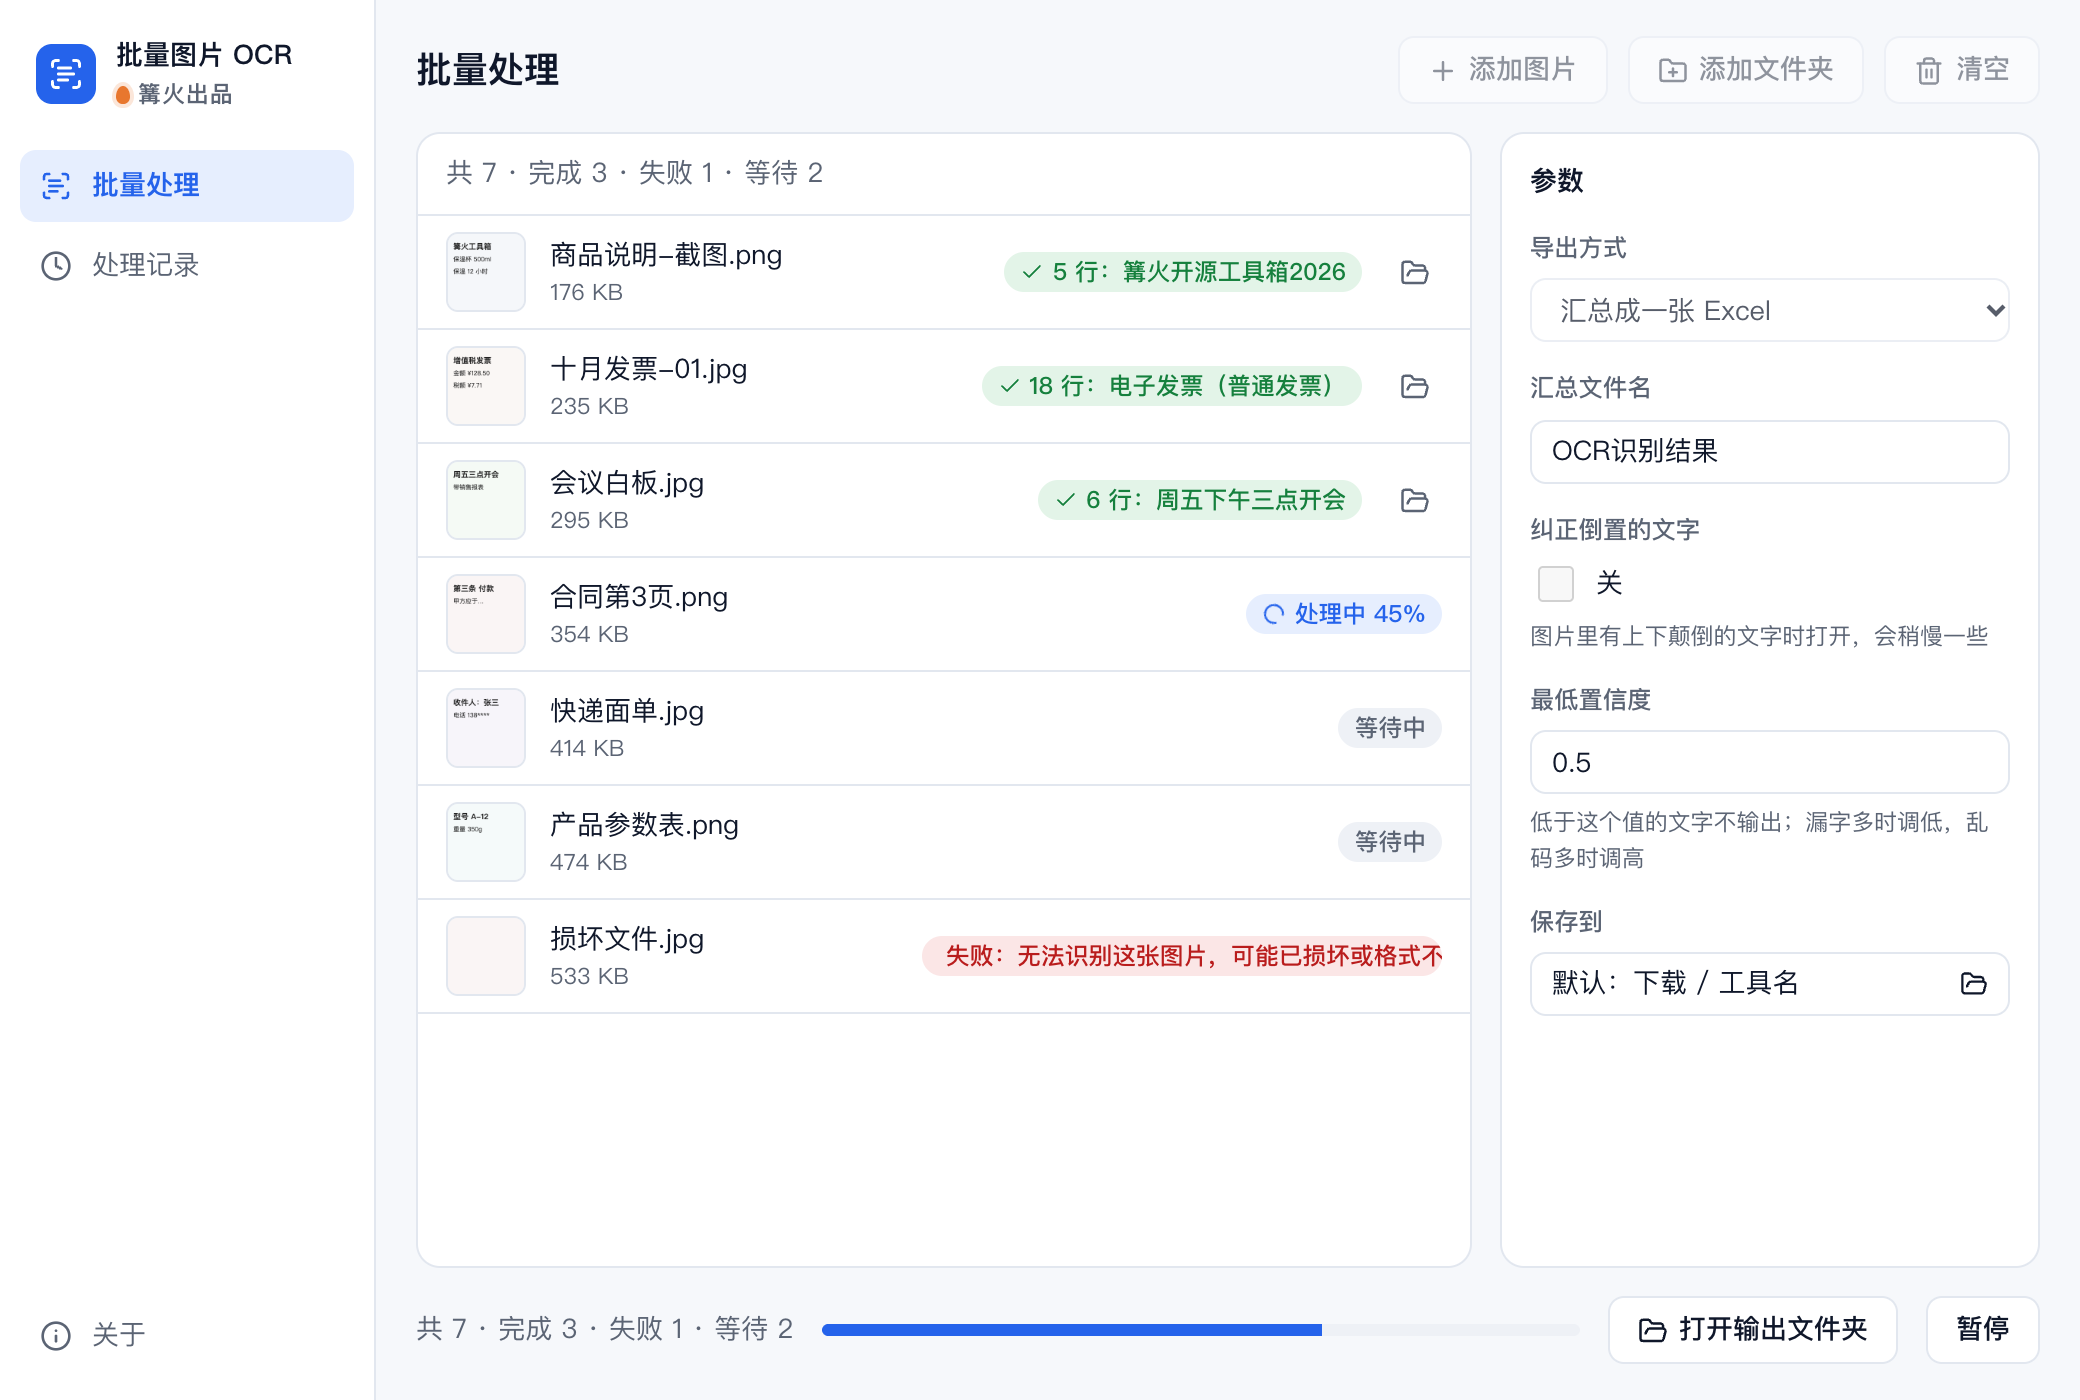
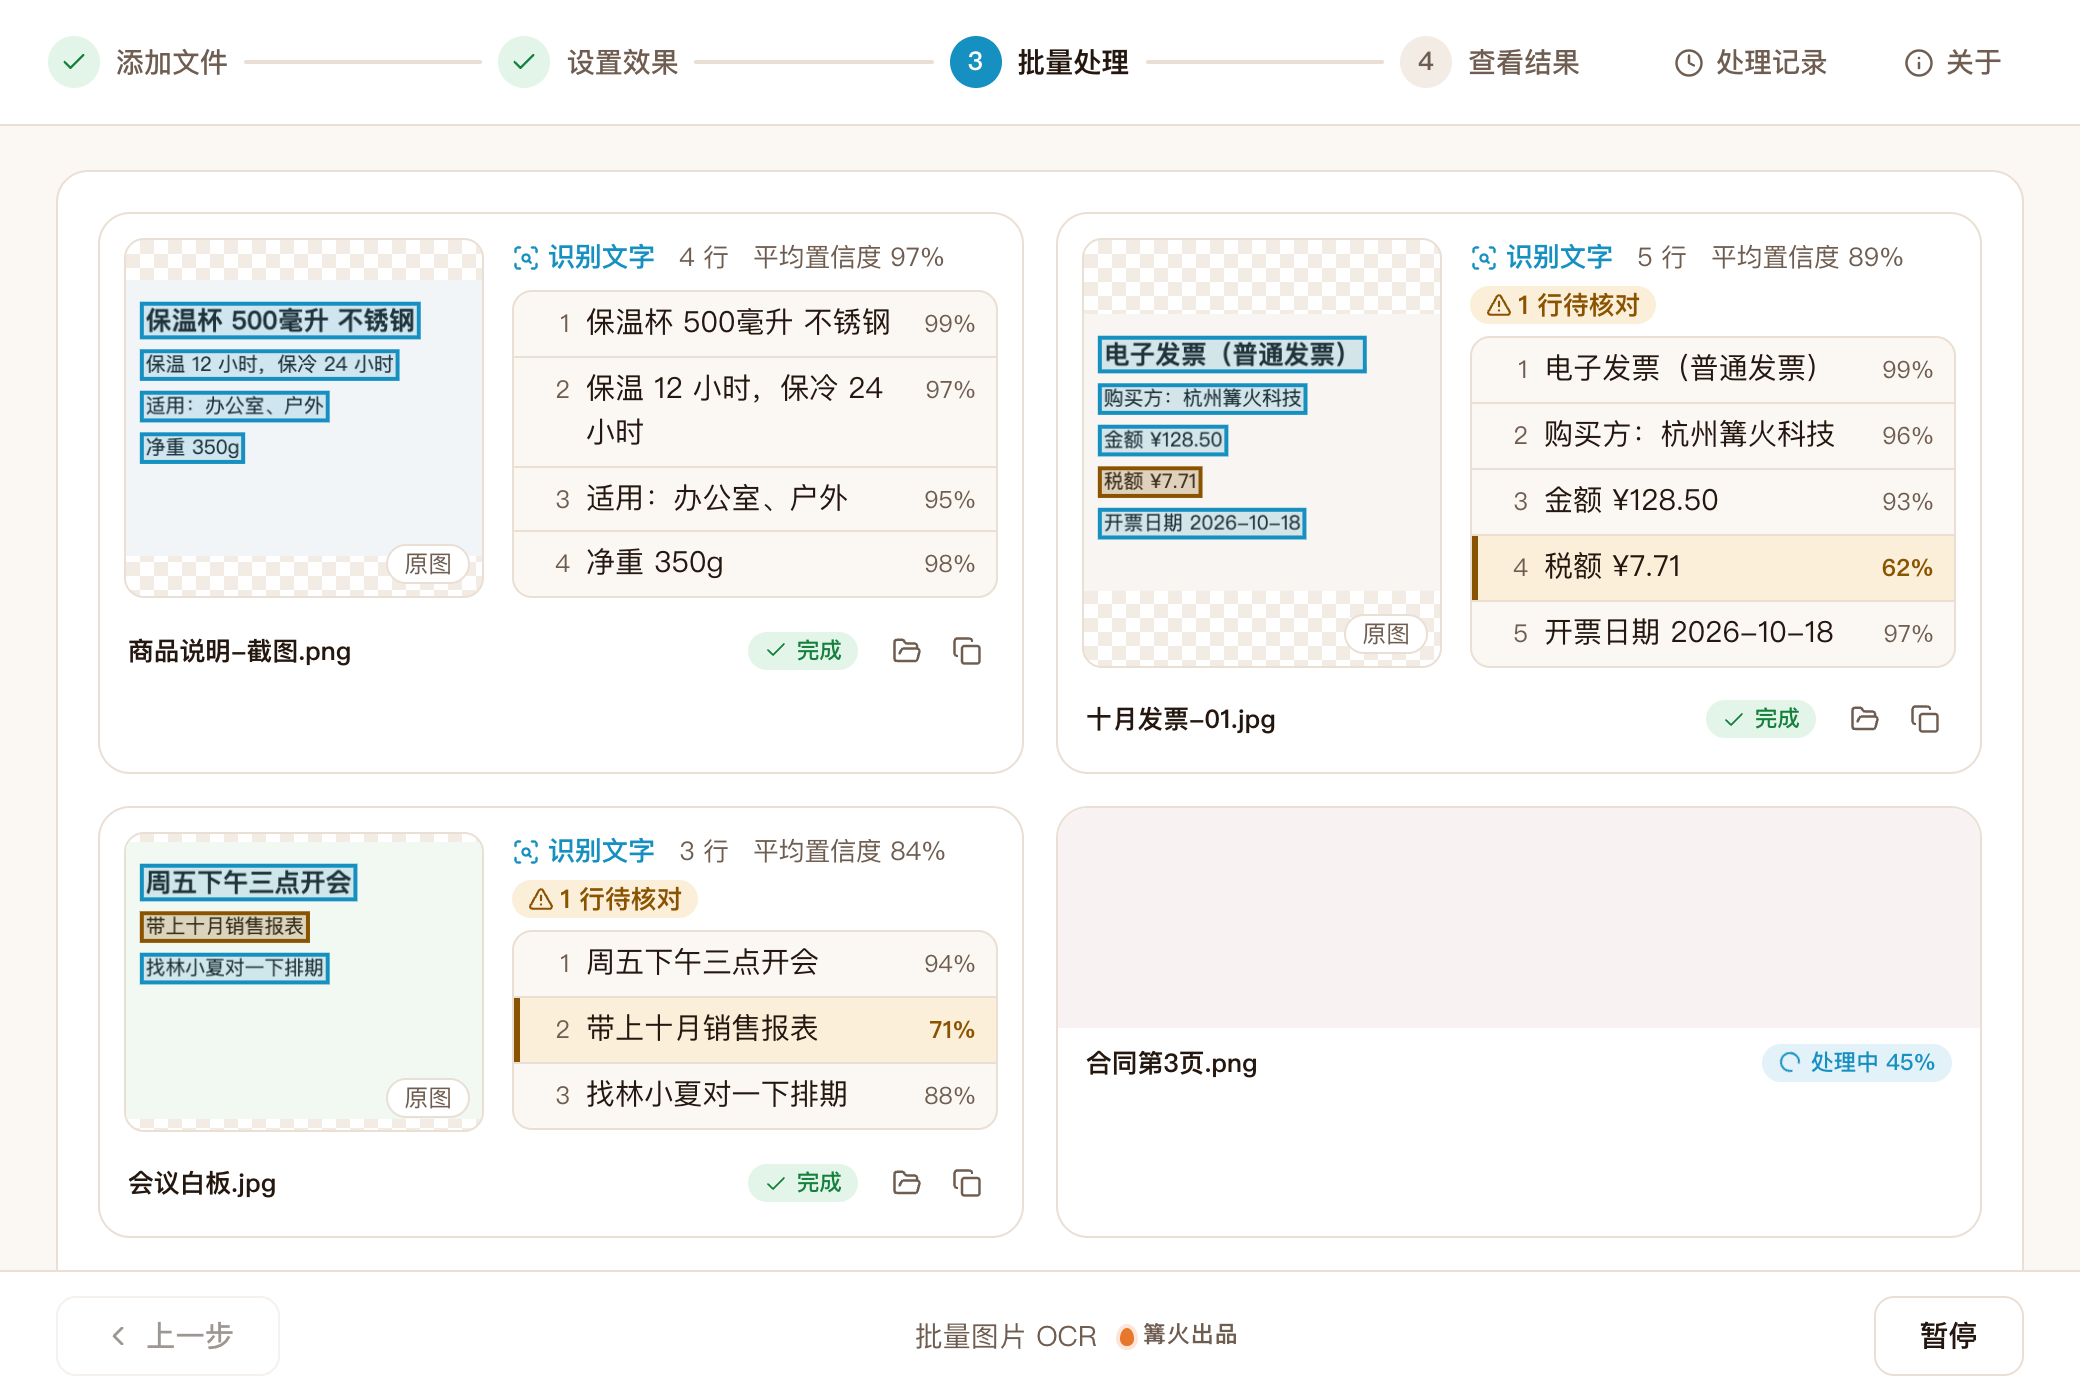
打磨 0.2.0：分步向导布局、原图与识别文字左右对照、低置信度标黄

diff --git a/src/tool/preview.ts b/src/tool/preview.ts
@@ -1,31 +1,54 @@
 // 截图与预览用的示例数据（不会进入正式运行）
 import type { Row } from '../kit/runner';
+import type { Quad, TextLine } from './core';
 
-function shot(lines: string[], hue: number) {
+const W = 360;
+const H = 280;
+/** 画一张带文字的示例图，同时算出每行文字的框，让预览里的框和图对得上 */
+function draw(lines: [string, number][], hue: number): { url: string; data: TextLine[] } {
   const c = document.createElement('canvas');
-  c.width = c.height = 200;
+  c.width = W; c.height = H;
   const g = c.getContext('2d')!;
-  g.fillStyle = `hsl(${hue} 30% 97%)`;
-  g.fillRect(0, 0, 200, 200);
-  g.fillStyle = '#222';
-  lines.forEach((t, i) => { g.font = `${i ? 16 : 'bold 20'}px sans-serif`; g.fillText(t, 14, 40 + i * 32); });
-  return c.toDataURL('image/png');
+  g.fillStyle = `hsl(${hue} 32% 96%)`;
+  g.fillRect(0, 0, W, H);
+  const out: TextLine[] = [];
+  lines.forEach(([text, score], i) => {
+    const size = i ? 20 : 26;
+    g.font = `${i ? '' : 'bold '}${size}px sans-serif`;
+    g.fillStyle = '#222';
+    const y = 50 + i * 42;
+    g.fillText(text, 20, y);
+    const w = g.measureText(text).width;
+    const quad: Quad = [[16, y - size], [24 + w, y - size], [24 + w, y + 8], [16, y + 8]];
+    out.push({ text, score, boxes: [{ quad, text, score }] });
+  });
+  return { url: c.toDataURL('image/png'), data: out };
 }
-const files: [string, string[], number, Row['status'], string][] = [
-  ['商品说明-截图.png', ['篝火工具箱', '保温杯 500ml', '保温 12 小时'], 210, 'ok', '5 行：篝火开源工具箱2026'],
-  ['十月发票-01.jpg', ['增值税发票', '金额 ¥128.50', '税额 ¥7.71'], 30, 'ok', '18 行：电子发票（普通发票）'],
-  ['会议白板.jpg', ['周五三点开会', '带销售报表'], 120, 'ok', '6 行：周五下午三点开会'],
-  ['合同第3页.png', ['第三条 付款', '甲方应于…'], 0, 'run', ''],
-  ['快递面单.jpg', ['收件人：张三', '电话 138****'], 260, 'wait', ''],
-  ['产品参数表.png', ['型号 A-12', '重量 350g'], 180, 'wait', ''],
-  ['损坏文件.jpg', [], 0, 'err', '无法识别这张图片，可能已损坏或格式不受支持'],
+
+const files: [string, [string, number][], number, Row['status'], string][] = [
+  ['商品说明-截图.png', [['保温杯 500毫升 不锈钢', 0.99], ['保温 12 小时，保冷 24 小时', 0.97], ['适用：办公室、户外', 0.95], ['净重 350g', 0.98]], 210, 'ok', ''],
+  ['十月发票-01.jpg', [['电子发票（普通发票）', 0.99], ['购买方：杭州篝火科技', 0.96], ['金额 ¥128.50', 0.93], ['税额 ¥7.71', 0.62], ['开票日期 2026-10-18', 0.97]], 30, 'ok', ''],
+  ['会议白板.jpg', [['周五下午三点开会', 0.94], ['带上十月销售报表', 0.71], ['找林小夏对一下排期', 0.88]], 120, 'ok', ''],
+  ['合同第3页.png', [['第三条 付款方式', 0.9]], 0, 'run', ''],
+  ['快递面单.jpg', [['收件人：张三', 0.9]], 260, 'wait', ''],
+  ['产品参数表.png', [['型号 甲-12', 0.9]], 180, 'wait', ''],
+  ['损坏的图片.jpg', [], 0, 'err', '无法识别这张图片，可能已损坏或格式不受支持'],
 ];
 export const rows = (state: string): Row[] =>
   state === 'empty' ? [] : files.map(([name, lines, hue, status, text], i) => {
     const st = state === 'done' && status !== 'err' ? 'ok' : status;
+    const { url, data } = draw(lines, hue);
     return {
-      item: { id: `p${i}`, name, path: shot(lines, hue), size: 180_000 + i * 61_000 },
+      item: { id: `p${i}`, name, path: url, size: 180_000 + i * 61_000 },
       status: st, progress: st === 'run' ? 0.45 : st === 'ok' ? 1 : 0, error: st === 'err' ? text : undefined,
-      result: st === 'ok' ? { preview: shot(lines, hue), summary: text || '4 行：识别完成', outputPath: '/示例' } : undefined,
+      result: st === 'ok' ? {
+        preview: url,
+        summary: `${data.length} 行：${data[0]?.text ?? ''}`,
+        outputPath: '/示例',
+        text: data.map((l) => l.text).join('\n'),
+        data: { name, lines: data },
+      } : undefined,
     };
   });
+
+export const params = { format: 'xlsx' };

diff --git a/src/tool/tool.css b/src/tool/tool.css
@@ -1,0 +1,35 @@
+/* 批量图片 OCR：布局 c（分步向导 + 大卡片）。只用 kit.css 的变量，类名以 oc- 开头。
+   焦点是每张图的「原图 | 识别文字」左右对照，所以把结果卡片拉宽。 */
+.L-c .k-cards { grid-template-columns: repeat(auto-fill, minmax(460px, 1fr)); gap: 16px; }
+.L-c .k-card { border-radius: var(--radius-lg); }
+.L-c .k-card-body { padding: 12px 12px 4px; }
+.L-c .k-card-meta { padding: 8px 14px 12px; font-weight: 600; }
+
+.oc-pair { display: grid; grid-template-columns: 180px minmax(0, 1fr); gap: 14px; align-items: stretch; }
+.oc-shot { position: relative; margin: 0; min-height: 150px; border-radius: var(--radius); border: 1px solid var(--line); background: repeating-conic-gradient(var(--chip) 0 25%, var(--surface) 0 50%) 0 0 / 14px 14px; overflow: hidden; display: grid; place-items: center; align-content: center; }
+.oc-shot svg { display: block; width: 100%; height: auto; max-height: 230px; }
+.oc-shot polygon { fill: color-mix(in srgb, var(--primary) 16%, transparent); stroke: var(--primary); stroke-width: 2; vector-effect: non-scaling-stroke; }
+.oc-shot polygon.low { fill: color-mix(in srgb, var(--warn) 22%, transparent); stroke: var(--warn); }
+.oc-shot figcaption { position: absolute; right: 6px; bottom: 6px; padding: 0 8px; border-radius: 999px; background: var(--surface); border: 1px solid var(--line); color: var(--muted); font-size: .85em; }
+
+.oc-text { min-width: 0; display: flex; flex-direction: column; gap: 6px; }
+.oc-meta { display: flex; flex-wrap: wrap; align-items: center; gap: 4px 12px; color: var(--muted); font-size: .92em; }
+.oc-meta b { display: inline-flex; align-items: center; gap: 4px; color: var(--primary); font-size: 1.04em; }
+.oc-warn { display: inline-flex; align-items: center; gap: 3px; padding: 0 8px; border-radius: 999px; background: var(--warn-soft); color: var(--warn); font-weight: 600; }
+.oc-lines { list-style: none; margin: 0; padding: 0; max-height: 210px; overflow: auto; border: 1px solid var(--line); border-radius: var(--radius); background: var(--bg); user-select: text; }
+.oc-lines li { display: grid; grid-template-columns: 24px minmax(0, 1fr) auto; gap: 8px; align-items: baseline; padding: 5px 10px 5px 4px; border-bottom: 1px solid var(--line); line-height: 1.5; }
+.oc-lines li:last-child { border-bottom: 0; }
+.oc-lines i { font-style: normal; text-align: right; color: var(--muted); font-size: .88em; }
+.oc-lines span { overflow-wrap: anywhere; color: var(--ink); font-size: 1.04em; }
+.oc-lines em { font-style: normal; font-size: .85em; color: var(--muted); }
+.oc-lines li.low { background: var(--warn-soft); box-shadow: inset 3px 0 0 var(--warn); }
+.oc-lines li.low em { color: var(--warn); font-weight: 700; }
+.oc-none { padding: 14px; border: 1px dashed var(--line-strong); border-radius: var(--radius); color: var(--muted); }
+
+@media (max-width: 760px) { .oc-pair { grid-template-columns: 1fr; } .L-c .k-cards { grid-template-columns: 1fr; } }
+
+/* 结果是主角：把结果卡片排到进度和设置前面，卡片底部名称与操作排成一行 */
+.L-c .c-span { order: -1; }
+.L-c .k-card-meta { display: flex; flex-wrap: wrap; align-items: center; justify-content: space-between; gap: 6px 10px; }
+.L-c .k-card-meta > .k-ellipsis { flex: 1 1 140px; }
+.L-c .k-card-foot { gap: 10px; }

diff --git a/src/tool/Result.tsx b/src/tool/Result.tsx
@@ -1,0 +1,51 @@
+// 单张图片的识别结果：左边原图加文字框，右边按阅读顺序列出识别出的文字，低置信度的行标出来方便核对
+import { useState } from 'react';
+import { AlertTriangle, ScanSearch } from 'lucide-react';
+import type { InputItem, ItemResult } from '../kit/types';
+import { fileSrc } from '../kit/platform';
+import type { TextLine } from './core';
+import './tool.css';
+
+const LOW = 0.8;
+type Data = { name: string; lines: TextLine[] } | undefined;
+
+export function ResultBody({ item, result }: { item: InputItem; result: ItemResult }) {
+  const lines = (result.data as Data)?.lines ?? [];
+  const src = result.preview ?? item.path;
+  const [size, setSize] = useState<[number, number]>();
+  const low = lines.filter((l) => l.score < LOW).length;
+  const avg = lines.length ? Math.round((lines.reduce((a, l) => a + l.score, 0) / lines.length) * 100) : 0;
+  return (
+    <div className="oc-pair">
+      <figure className="oc-shot">
+        {src && <img hidden src={fileSrc(src)} alt="" onLoad={(e) => setSize([e.currentTarget.naturalWidth, e.currentTarget.naturalHeight])} />}
+        {src && size && (
+          <svg viewBox={`0 0 ${size[0]} ${size[1]}`} role="img" aria-label="原图和文字框">
+            <image href={fileSrc(src)} width={size[0]} height={size[1]} />
+            {lines.flatMap((l, i) => l.boxes.map((b, j) => (
+              <polygon key={`${i}-${j}`} className={l.score < LOW ? 'low' : ''} points={b.quad.map((p) => p.join(',')).join(' ')} />
+            )))}
+          </svg>
+        )}
+        <figcaption>原图</figcaption>
+      </figure>
+      <div className="oc-text">
+        <div className="oc-meta">
+          <b><ScanSearch size={14} />识别文字</b>
+          <span className="k-num">{lines.length} 行</span>
+          {lines.length > 0 && <span className="k-num">平均置信度 {avg}%</span>}
+          {low > 0 && <span className="oc-warn"><AlertTriangle size={13} />{low} 行待核对</span>}
+        </div>
+        {lines.length ? (
+          <ol className="oc-lines">
+            {lines.map((l, i) => (
+              <li key={i} className={l.score < LOW ? 'low' : ''}>
+                <i className="k-num">{i + 1}</i><span>{l.text}</span><em className="k-num">{Math.round(l.score * 100)}%</em>
+              </li>
+            ))}
+          </ol>
+        ) : <p className="oc-none">这张图里没有识别到文字。图片太模糊，或者最低置信度调得太高时会这样。</p>}
+      </div>
+    </div>
+  );
+}

diff --git a/src/tool/index.ts b/src/tool/index.ts
@@ -3,6 +3,7 @@ import { ScanText as ScanTextAsIcon } from 'lucide-react';
 import type { BatchTool } from '../kit/types';
 import { baseName, excelRows, mergedText, safeName, type TextLine } from './core';
 import { writeXlsx } from './xlsx';
+import { ResultBody } from './Result';
 
 type Data = { name: string; lines: TextLine[] };
 const perImage = (p: Record<string, unknown>) => p.format === 'txt';
@@ -17,6 +18,7 @@ const tool: BatchTool = {
   mode: 'batch',
   resultView: 'list',
   concurrency: 1,
+  ResultBody,
   accept: { label: '图片', extensions: ['jpg', 'jpeg', 'png', 'webp', 'bmp', 'gif'] },
   params: [
     { key: 'format', label: '导出方式', type: 'select', options: [['xlsx', '汇总成一张 Excel'], ['txt', '每张图一个 TXT'], ['merged', '合并成一个 TXT']], default: 'xlsx' },

diff --git a/CHANGELOG.md b/CHANGELOG.md
@@ -1,5 +1,12 @@
 # 更新记录
 
+## 0.2.0
+
+- 换成分步向导布局，结果页改为大卡片：左边原图并画出文字框，右边按阅读顺序列出识别文字和置信度。
+- 置信度低于 80% 的行标黄，并统计待核对的行数。
+- 结果卡片排在进度和设置前面。
+- 主色改为专属蓝色；界面文字全部改为中文。
+
 ## 0.1.0
 
 - 首个版本。
